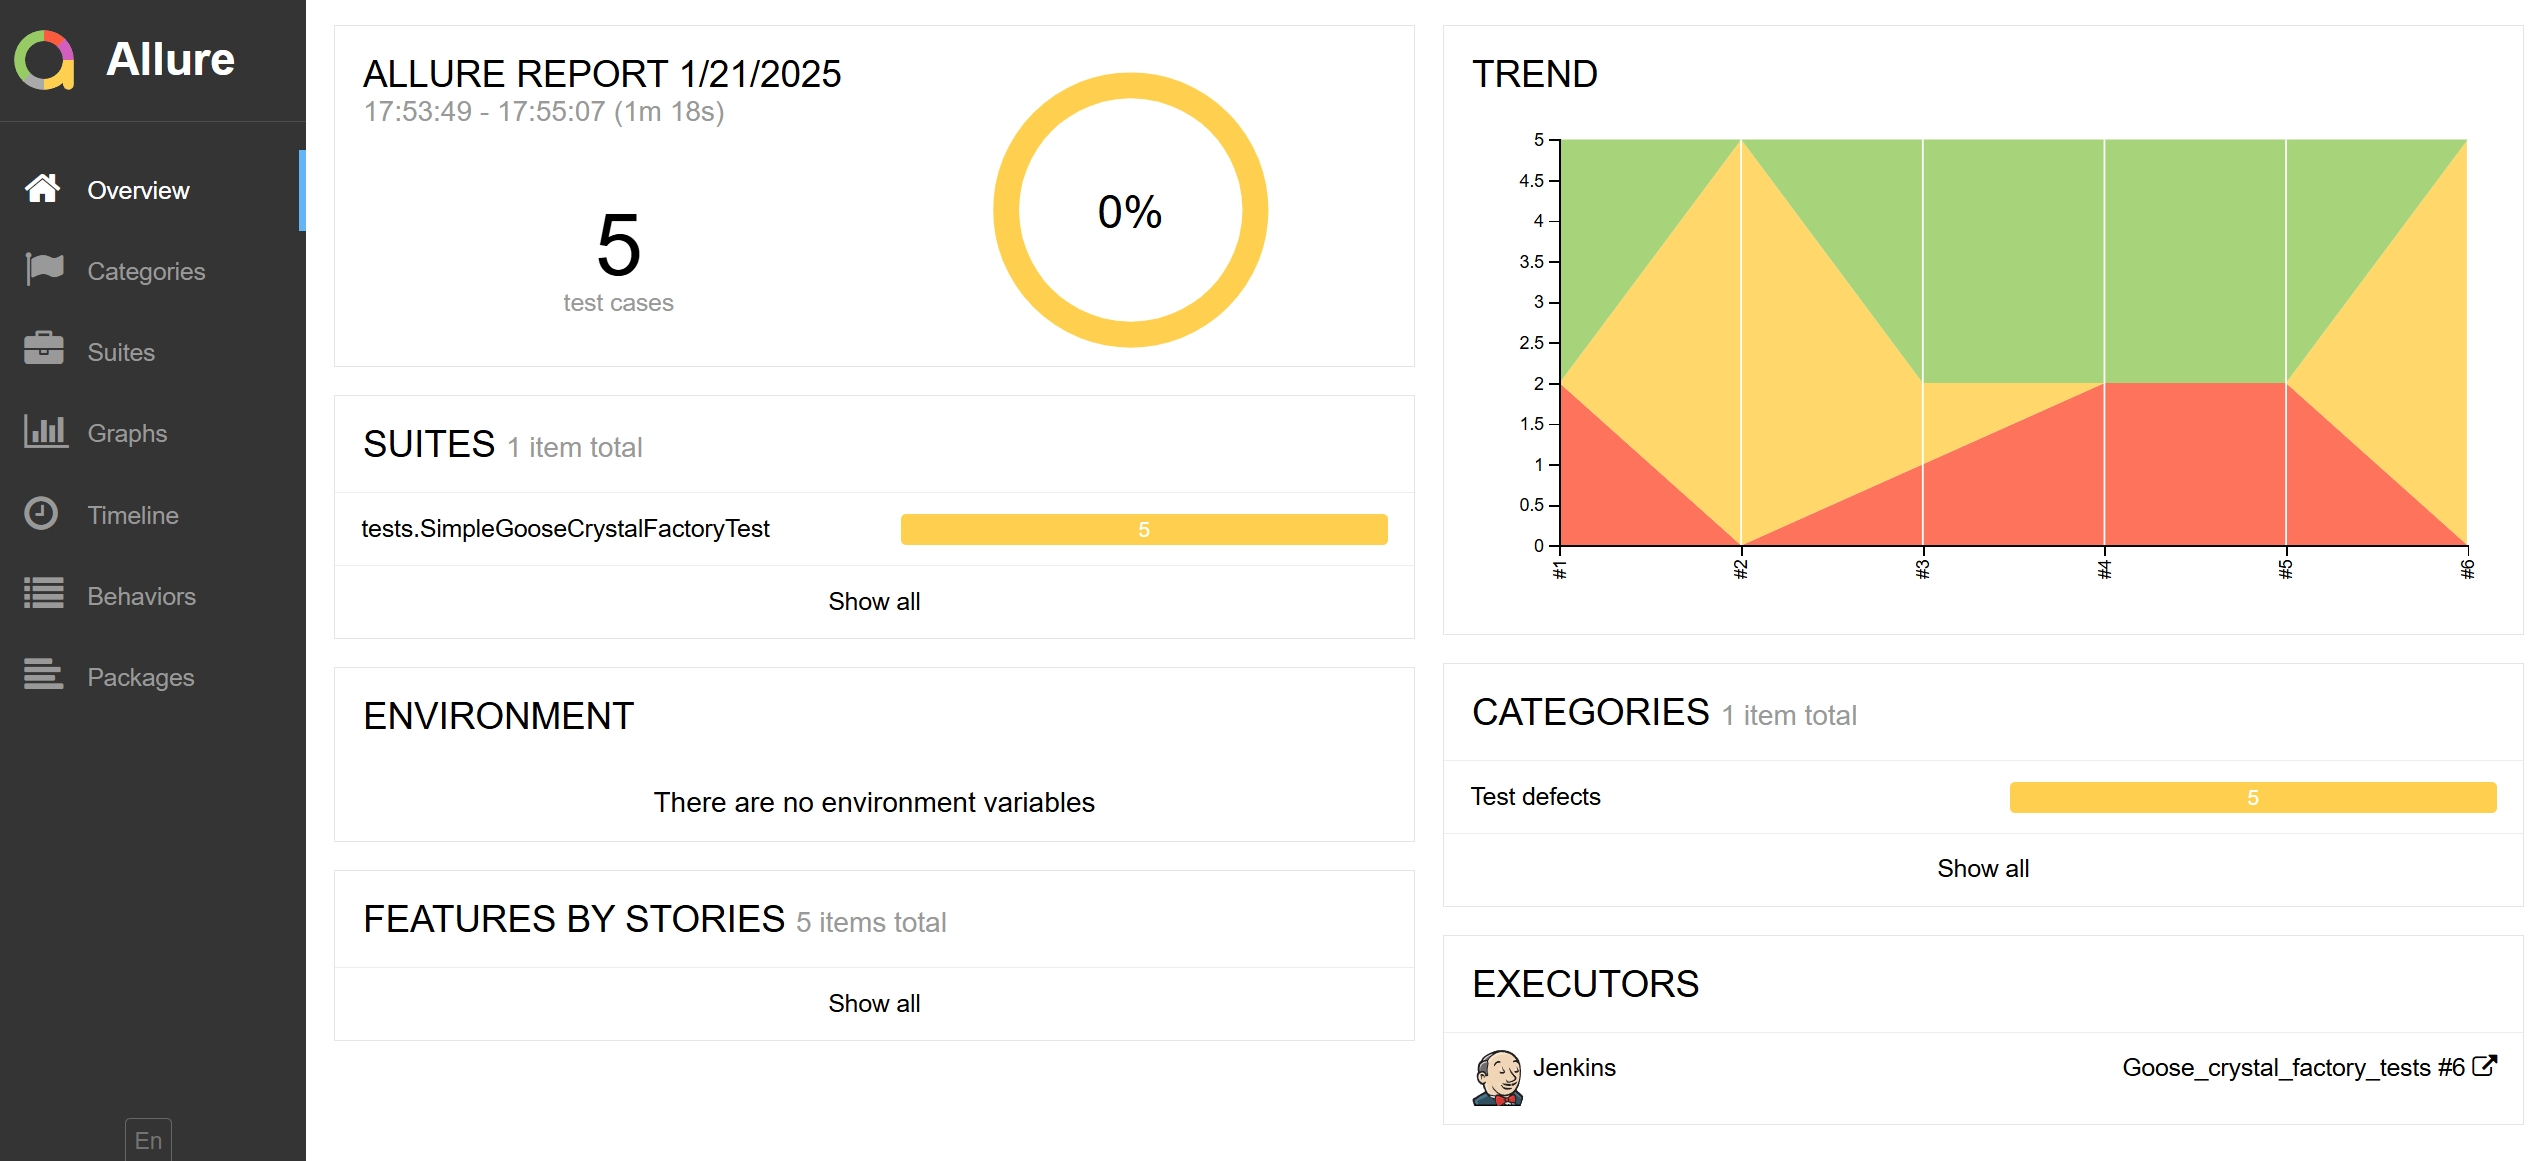
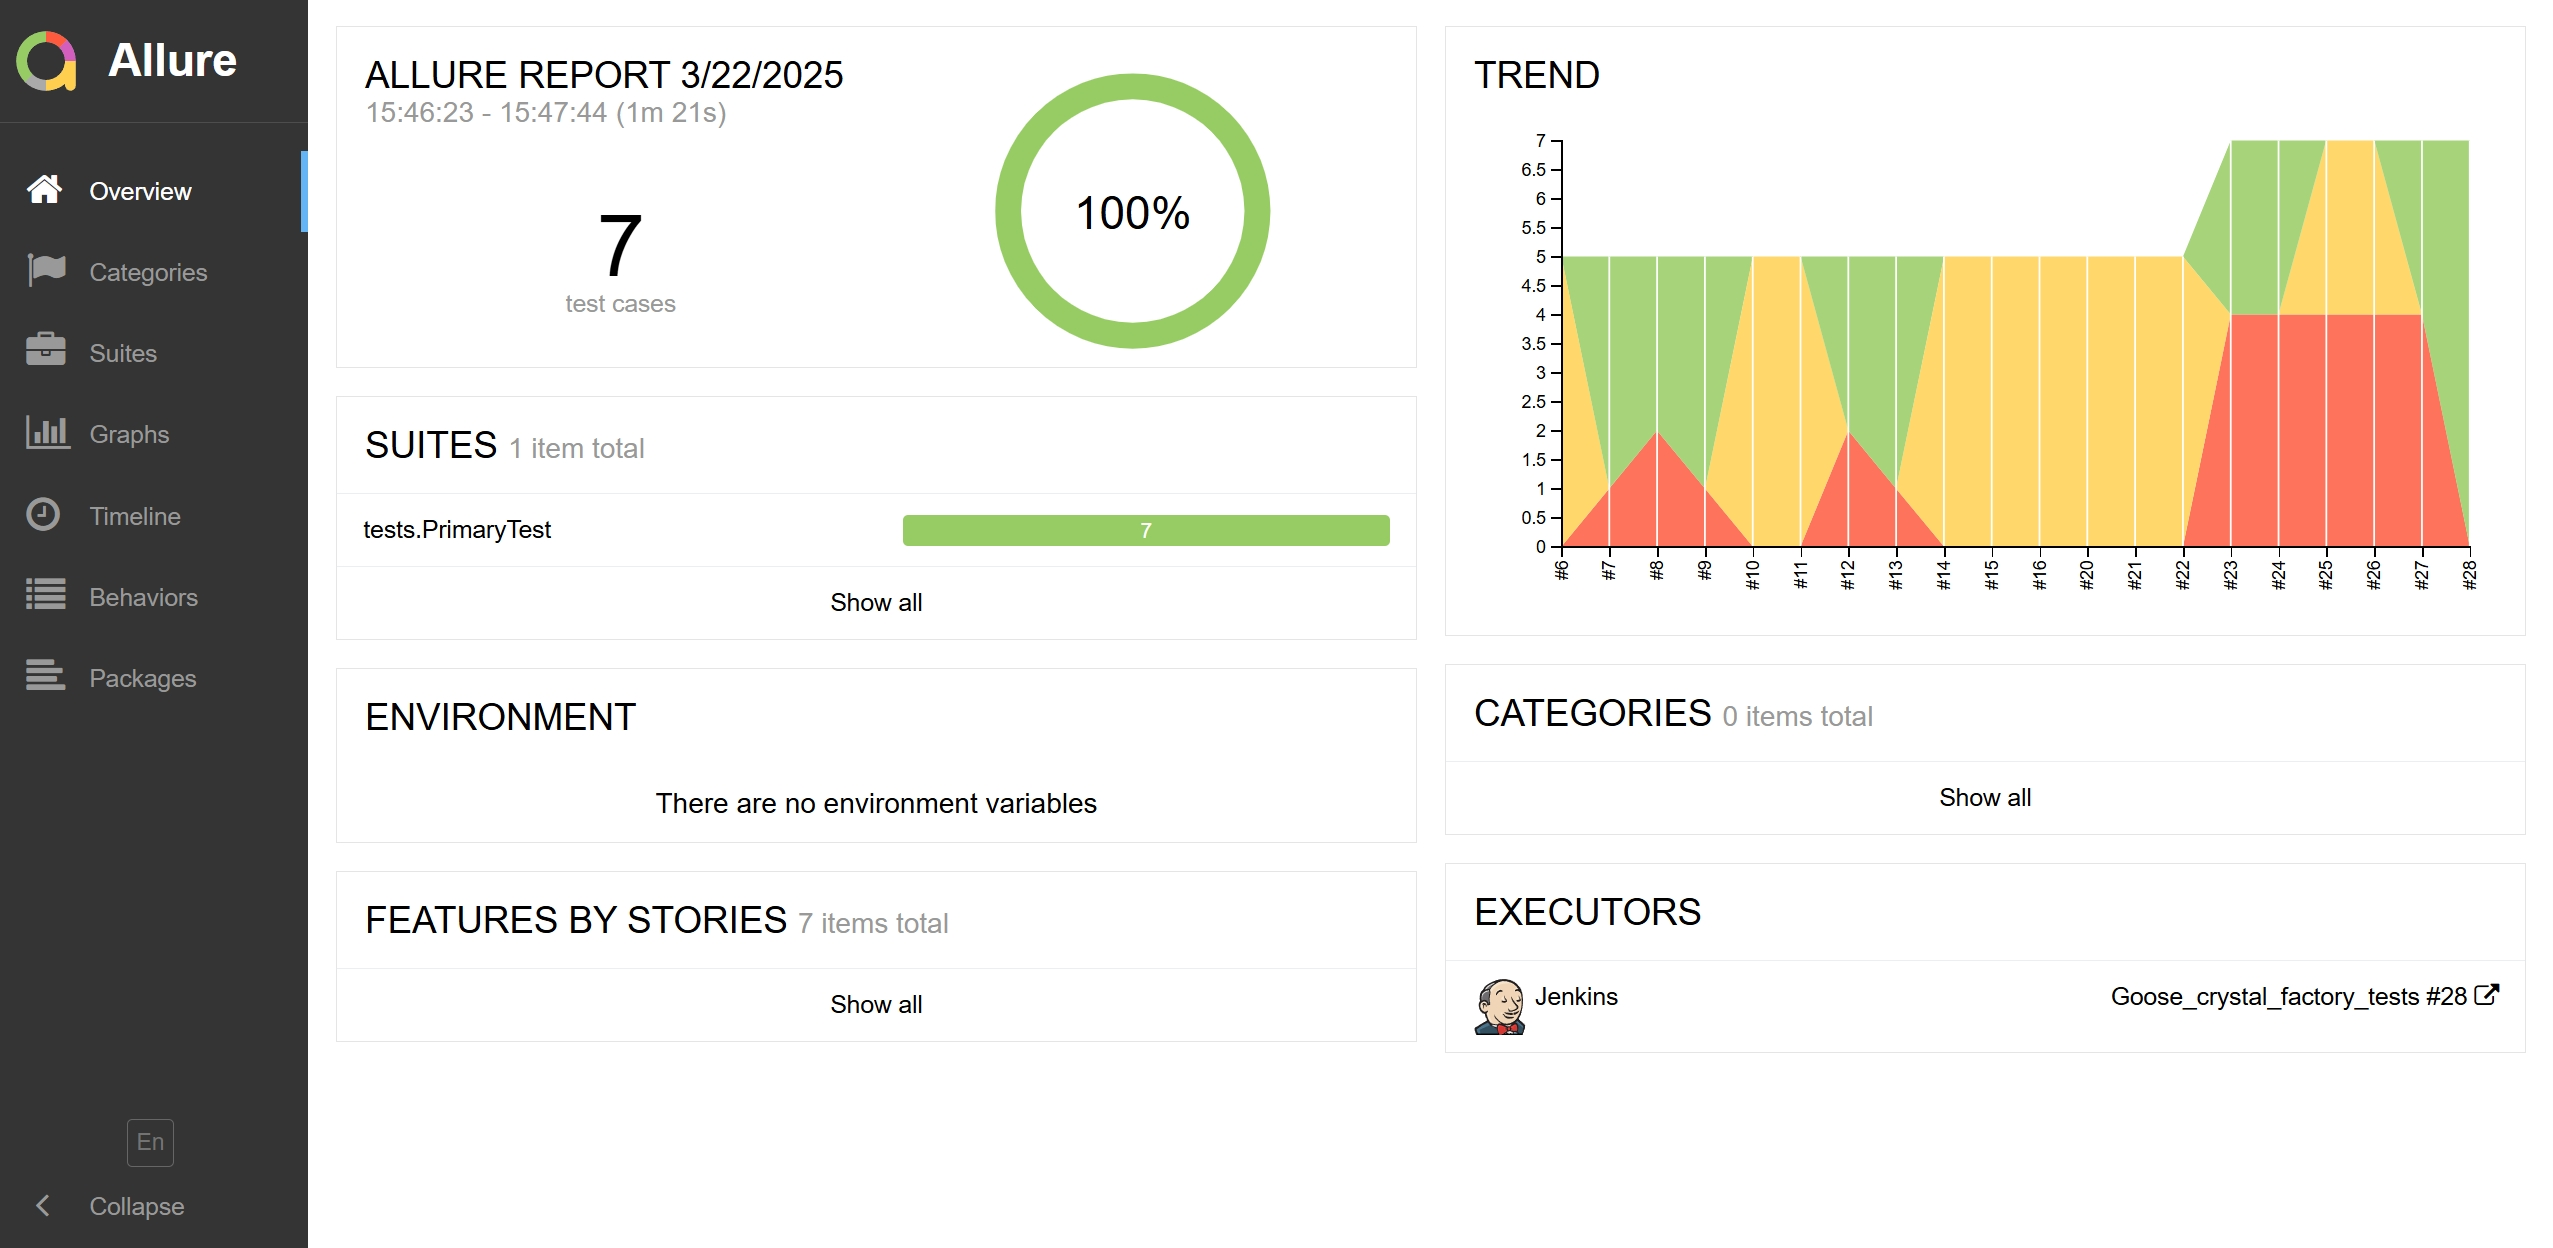
fix tests

diff --git a/src/test/java/tests/CatalogPageTests.java b/src/test/java/tests/CatalogPageTests.java
@@ -1,0 +1,57 @@
+package tests;
+
+import io.qameta.allure.*;
+import org.junit.jupiter.api.DisplayName;
+import org.junit.jupiter.api.Tag;
+import org.junit.jupiter.api.Test;
+import pages.CartPage;
+import pages.CatalogPage;
+
+@Epic("Каталог")
+@Feature("Работа с каталогом товаров")
+@Tag("goose-crystal")
+public class CatalogPageTests extends TestBase {
+
+    public static final String FISH_PLATE_TITLE = "Рыбница, коллекция \"Даймонд\" (бесцветный)";
+
+    CatalogPage catalogPage = new CatalogPage();
+    CartPage cartPage = new CartPage();
+
+    @Test
+    @DisplayName("Находим рыбницу с помощью фильтрации в каталоге")
+    @Severity(SeverityLevel.BLOCKER)
+    @Story("Фильтрация товаров")
+    void findPlateForFishByFiltersTest() {
+
+        catalogPage.openCatalogPage();
+        catalogPage.selectNovinkaFilter();
+        catalogPage.selectDiamondFilter();
+        catalogPage.checkProductTitle(FISH_PLATE_TITLE);
+    }
+
+    @Test
+    @DisplayName("Увеличение количества товаров в корзине")
+    void increaseItemCountInCartTest() {
+
+        catalogPage.openCatalogPage();
+        catalogPage.addFirstProductToCart();
+        catalogPage.goToCart();
+        cartPage.increaseItemQuantity();
+        cartPage.checkItemQuantity("2");
+    }
+
+    @Test
+    @DisplayName("Отображение количества товаров в корзине на странице каталога")
+    @Severity(SeverityLevel.NORMAL)
+    @Story("Работа с корзиной")
+    void displayItemCountInCartOnCatalogPageTest() {
+
+        catalogPage.openCatalogPage();
+        catalogPage.addFirstProductToCart();
+        catalogPage.clickCartPopupContinueShoppingButton();
+        catalogPage.checkCartItemCount("1");
+        catalogPage.addSecondProductToCart();
+        catalogPage.clickCartPopupContinueShoppingButton();
+        catalogPage.checkCartItemCount("2");
+    }
+}

diff --git a/src/test/java/tests/LoginPageTests.java b/src/test/java/tests/LoginPageTests.java
@@ -1,0 +1,34 @@
+package tests;
+
+import com.github.javafaker.Faker;
+import io.qameta.allure.*;
+import org.junit.jupiter.api.DisplayName;
+import org.junit.jupiter.api.Tag;
+import org.junit.jupiter.api.Test;
+import pages.LoginPage;
+
+@Epic("Авторизация")
+@Feature("Проверка авторизации")
+@Tag("goose-crystal")
+public class LoginPageTests extends TestBase {
+
+    public static final String ALERT = "Неверный логин или пароль.";
+
+    LoginPage loginPage = new LoginPage();
+    Faker faker = new Faker();
+
+    @Test
+    @DisplayName("Наличие алерта при безуспешной авторизации")
+    @Severity(SeverityLevel.CRITICAL)
+    @Story("Обработка ошибок авторизации")
+    void unsuccessfulRegistrationTest() {
+
+        String invalidLogin = faker.name().username();
+        String invalidPassword = faker.internet().password();
+
+        loginPage.openLoginPage();
+        loginPage.enterCredentials(invalidLogin, invalidPassword);
+        loginPage.clickLoginButton();
+        loginPage.checkAlertText(ALERT);
+    }
+}

diff --git a/src/test/java/pages/CatalogPage.java b/src/test/java/pages/CatalogPage.java
@@ -56,7 +56,9 @@ public class CatalogPage {
 
     @Step("Нажимаем кнопку 'Продолжить покупки' в попапе корзины")
     public void clickCartPopupContinueShoppingButton() {
-        cartPopupContinueShoppingButton.click();
+        cartPopupContinueShoppingButton
+                .shouldBe(visible, enabled)
+                .click(ClickOptions.usingJavaScript());
     }
 
     @Step("Переходим в корзину из попапа корзины")
@@ -66,7 +68,9 @@ public class CatalogPage {
 
     @Step("Проверяем, что количество товаров в корзине равно {expectedCount}")
     public void checkCartItemCount(String expectedCount) {
-        cartItemCount.shouldHave(text(expectedCount));
+        cartItemCount
+                .shouldHave(text(expectedCount))
+                .shouldBe(visible);
     }
 
     @Step("Дожидаемся исчезновения перекрывающего элемента (если он есть)")

diff --git a/src/test/java/tests/StorePageTests.java b/src/test/java/tests/StorePageTests.java
@@ -1,0 +1,27 @@
+package tests;
+
+import io.qameta.allure.*;
+import org.junit.jupiter.api.DisplayName;
+import org.junit.jupiter.api.Tag;
+import org.junit.jupiter.api.Test;
+import pages.StorePage;
+
+@Epic("Магазины")
+@Feature("Информация о магазинах")
+@Tag("goose-crystal")
+public class StorePageTests extends TestBase {
+
+    public static final String SUZDAL_ADDRESS = "601293, Владимирская область, г. Суздаль, ул. Ленина, д.63А Здание Суздальских торговых рядов";
+
+    StorePage storePage = new StorePage();
+
+    @Test
+    @DisplayName("Проверяем корректность адреса магазина в Суздале")
+    @Severity(SeverityLevel.NORMAL)
+    @Story("Проверка адресов магазинов")
+    void validSuzdalStoreAddressTest() {
+        storePage.openStorePage();
+        storePage.selectSuzdalCity();
+        storePage.checkSuzdalAddress(SUZDAL_ADDRESS);
+    }
+}

diff --git a/src/test/java/tests/TestBase.java b/src/test/java/tests/TestBase.java
@@ -17,10 +17,10 @@ public class TestBase {
     @BeforeAll
     static void beforeAll() {
         Configuration.baseUrl = "https://goose-crystal.ru";
-        Configuration.browserSize = System.getProperty("browserSize");
-        Configuration.remote = "https://user1:1234@" + System.getProperty("remoteHost") + "wd/hub";
-        Configuration.browser = System.getProperty("browser");
-        Configuration.browserVersion = System.getProperty("browserVersion");
+        //Configuration.browserSize = System.getProperty("browserSize");
+        //Configuration.remote = "https://user1:1234@" + System.getProperty("remoteHost") + "wd/hub";
+        //Configuration.browser = System.getProperty("browser");
+        //Configuration.browserVersion = System.getProperty("browserVersion");
 
         DesiredCapabilities capabilities = new DesiredCapabilities();
         capabilities.setCapability("selenoid:options", Map.<String, Object>of(

diff --git a/src/test/java/tests/TourPageTests.java b/src/test/java/tests/TourPageTests.java
@@ -1,0 +1,25 @@
+package tests;
+
+import io.qameta.allure.*;
+import org.junit.jupiter.api.DisplayName;
+import org.junit.jupiter.api.Tag;
+import org.junit.jupiter.api.Test;
+import pages.TourPage;
+
+@Epic("Экскурсии")
+@Feature("Информация об экскурсиях")
+@Tag("goose-crystal")
+public class TourPageTests extends TestBase {
+
+    TourPage tourPage = new TourPage();
+
+    @Test
+    @DisplayName("На странице конкретной экскурсии есть инф.блоки 2 других экскурсий")
+    @Severity(SeverityLevel.MINOR) // Самый низкий уровень важности
+    @Story("Отображение информации об экскурсиях")
+    void onIndividualTourPageShouldHasOthersToursTest() {
+        tourPage.openTourPage();
+        tourPage.selectIndividualTour();
+        tourPage.checkNumberOfTours(2);
+    }
+}

diff --git a/src/test/java/tests/MainPageTests.java b/src/test/java/tests/MainPageTests.java
@@ -1,0 +1,24 @@
+package tests;
+
+import io.qameta.allure.*;
+import org.junit.jupiter.api.DisplayName;
+import org.junit.jupiter.api.Tag;
+import org.junit.jupiter.api.Test;
+import pages.MainPage;
+
+@Epic("Главная страница")
+@Feature("Элементы главной страницы")
+@Tag("goose-crystal")
+public class MainPageTests extends TestBase {
+
+    MainPage mainPage = new MainPage();
+
+    @Test
+    @DisplayName("Наличие ссылки на логотип завода на главной странице")
+    @Severity(SeverityLevel.CRITICAL)
+    @Story("Проверка видимости логотипа")
+    void logoLinkMainPageTest() {
+        mainPage.openMainPage();
+        mainPage.checkLogoIsVisible();
+    }
+}

diff --git a/README.md b/README.md
@@ -43,9 +43,12 @@
 
 - [x] Наличие ссылки на логотип завода на главной странице
 - [x] Находим рыбницу с помощью фильтрации в каталоге
+- [x] Увеличение количества товаров в корзине
+- [x] Отображение количества товаров в корзине на странице каталога
 - [x] На странице конкретной экскурсии есть инф.блоки 2 других экскурсий
 - [x] Проверяем корректность адреса магазина в Суздале
 - [x] Наличие алерта при безуспешной авторизации
+
 
 Запуск тестов из командной строки:
 
@@ -58,13 +61,13 @@ gradle clean goose_test
 
 ### Пример такого отчета в Telegram:
 
-<img src="/images/report.jpg" width="300" height="300">
+<img src="/images/report.jpg" width="300" height="270">
 
-### Пример Allure-отчета:
+### Пример [Allure-отчета](https://jenkins.autotests.cloud/job/Goose_crystal_factory_tests/28/allure/):
 
 <img src="/images/allure_report.jpg" width="600">
 
-### Прогон автотестов в Jenkins:
+### Прогон автотестов в [Jenkins](https://jenkins.autotests.cloud/job/Goose_crystal_factory_tests/):
 
 <img src="/images/jenkins.jpg" width="600">
 
